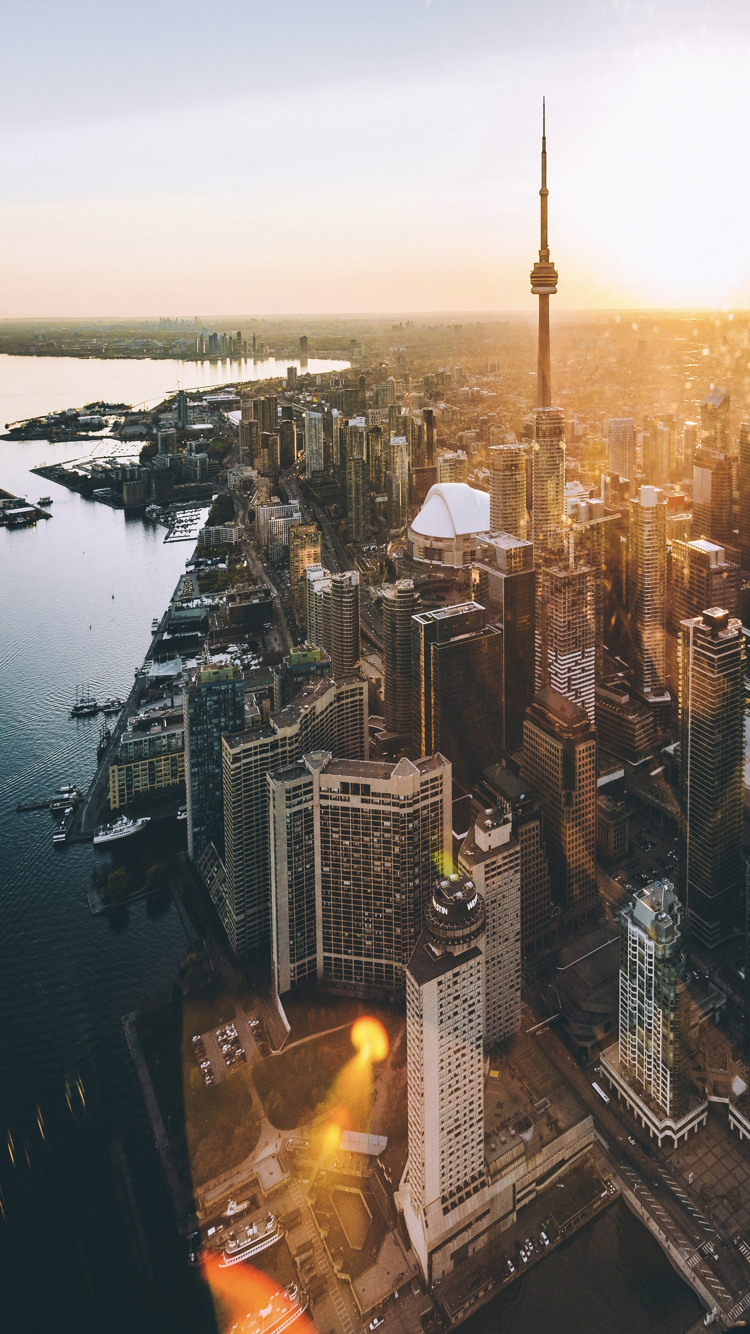
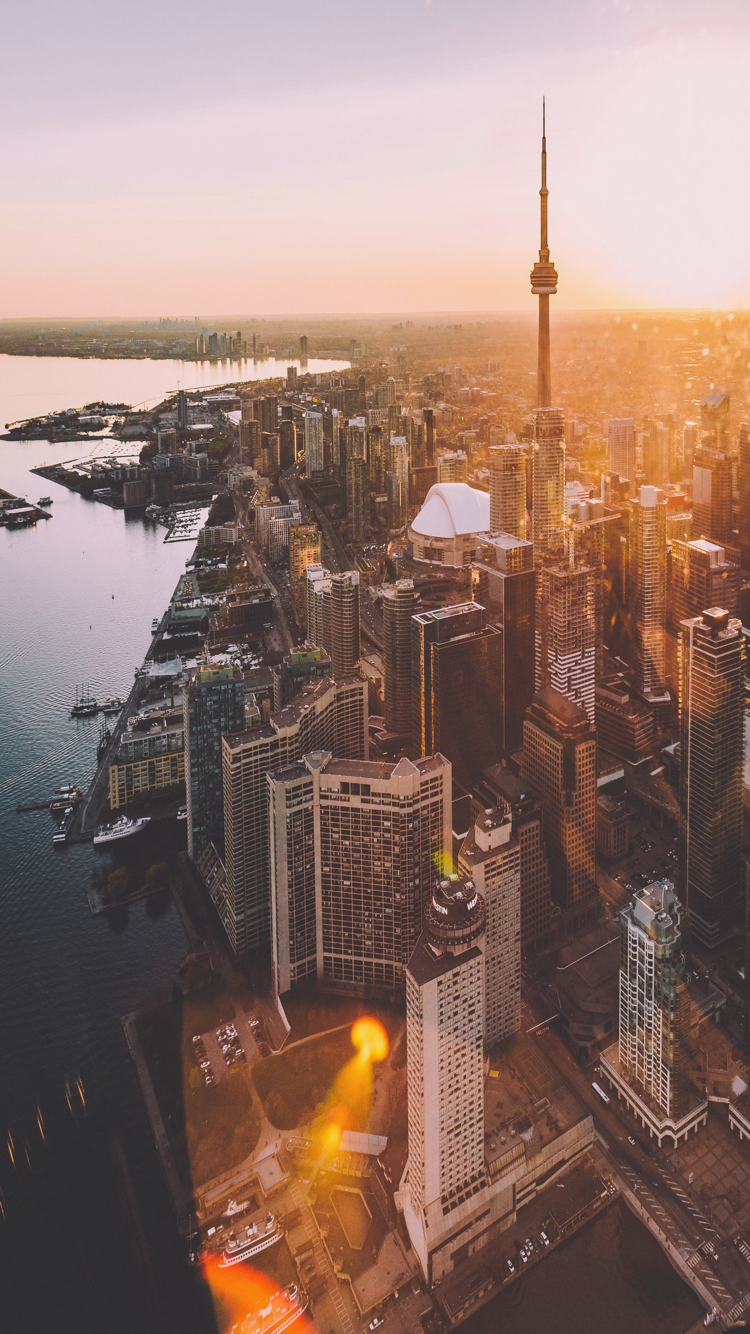
Update LandingPage.js + CreateAccount.js

diff --git a/curiocityfrontend/src/pages/UserLogin.js b/curiocityfrontend/src/pages/UserLogin.js
@@ -10,7 +10,7 @@ const useStyles = makeStyles((theme) => ({
   container: {
     height: "100%",
     width: "100%",
-    backgroundImage: "url(/images/LoginBGDouble.png)",
+    backgroundImage: "url(/images/landingPageImage2.png)",
     backgroundPosition: "center", /* Center the image */
     backgroundRepeat: "no-repeat", /* Do not repeat the image */
     backgroundSize: "cover", /* Resize the background image to cover the entire container */
@@ -19,7 +19,7 @@ const useStyles = makeStyles((theme) => ({
     justifyContent: "flex-end",
   },
   layerInBetweenBox: {
-    backgroundColor: "rgba(91,48,48,0.3)",
+    backgroundColor: "rgba(91,48,48,0.1)",
     height: "100%",
     width: "100%",
   },
@@ -35,19 +35,19 @@ const useStyles = makeStyles((theme) => ({
     borderRadius: "4px",
   },
   button: {
-    margin: theme.spacing(4),
+    margin: theme.spacing(3),
     width: "100px",
 
   },
   button2: {
     fontSize: "18px",
-    marginTop: theme.spacing(2),
+    marginBottom: theme.spacing(2),
     color: "white",
     backgroundColor: "rgba(255,255,255,0)",
   },
 }));
 
-export default function UserLoginSF() {
+export default function UserLogin() {
   const classes = useStyles();
 
   return (
@@ -58,6 +58,18 @@ export default function UserLoginSF() {
              className={classes.layerInBetweenBox}>
           <Box display="flex" flexDirection="column" justifyContent="center" alignItems="center"
                className={classes.wrapperBox}>
+            <img
+              src="/svg/curiocityLogo.svg"
+              alt="logo"
+              style={{
+                position: "absolute",
+                top: 60,
+                left: "13%",
+                height: 80,
+                width: "auto",
+                zIndex: 50,
+              }}
+            />
             <TextField
               error
               id="outlined-error"
@@ -65,6 +77,7 @@ export default function UserLoginSF() {
               defaultValue=""
               variant="outlined"
               className={classes.textPrimary}
+              style={{}}
             />
             <TextField
               error

diff --git a/curiocityfrontend/src/pages/CreateAccount.js b/curiocityfrontend/src/pages/CreateAccount.js
@@ -61,14 +61,8 @@ export default function CreateAccount() {
             <Typography className={classes.typo}>Create New Account</Typography>
             <Box display="flex" flexDirection="column" justifyContent="center" alignItems="center"
                  className={classes.textfieldBox}>
-              <TextField rid="standard-basic" label="First Name" className={classes.textfield}/>
-              <TextField rid="standard-basic" label="Last Name" className={classes.textfield}/>
-              <TextField rid="standard-basic" label="E-Mail Address" className={classes.textfield}/>
-              <TextField rid="standard-basic" label="Gender" className={classes.textfield}/>
-              <TextField rid="standard-basic" label="Year of Birth" className={classes.textfield}/>
-              <TextField rid="standard-basic" label="Country of Residence" className={classes.textfield}/>
-              <TextField rid="standard-basic" label="Postal Code" className={classes.textfield}/>
-              <TextField rid="standard-basic" label="Password" className={classes.textfield}/>
+              <TextField rid="standard-basic" label="Username" className={classes.textfield}/>
+              <TextField rid="standard-basic" label="Password" type="password" className={classes.textfield}/>
             </Box>
             <Link to="/login">
               <Button variant="contained" color="secondary" className={classes.button}>

diff --git a/curiocityfrontend/src/App.js b/curiocityfrontend/src/App.js
@@ -1,6 +1,6 @@
 import React from 'react';
 import {Route, Switch} from "react-router-dom";
-import UserLoginSF from "./pages/UserLoginSF";
+import UserLogin from "./pages/UserLogin";
 import CreateAccount from "./pages/CreateAccount";
 import MainPage from "./pages/MainPage";
 import GoogleMaps from "./components/googleMaps/GoogleMaps";
@@ -22,7 +22,7 @@ function App() {
         <CreateAccount/>
       </Route>
       <Route exact path={"/login"}>
-        <UserLoginSF/>
+        <UserLogin/>
       </Route>
       <Route exact path={"/main"}>
         <MainPage/>

diff --git a/curiocityfrontend/src/pages/LandingPage.js b/curiocityfrontend/src/pages/LandingPage.js
@@ -19,7 +19,7 @@ export default function LandingPage() {
         }}
       >
         <img
-          src="/images/landingPageImage.png"
+          src="/images/landingPageImage2.png"
           alt="city"
           style={{
             height: "100%",
@@ -34,7 +34,7 @@ export default function LandingPage() {
             left: 0,
             height: "100%",
             width: "100%",
-            backgroundColor: "rgba(177,166,201,0.3)",
+            backgroundColor: "rgba(91,48,48,0.1)",
             zIndex: 25,
           }}
         />
